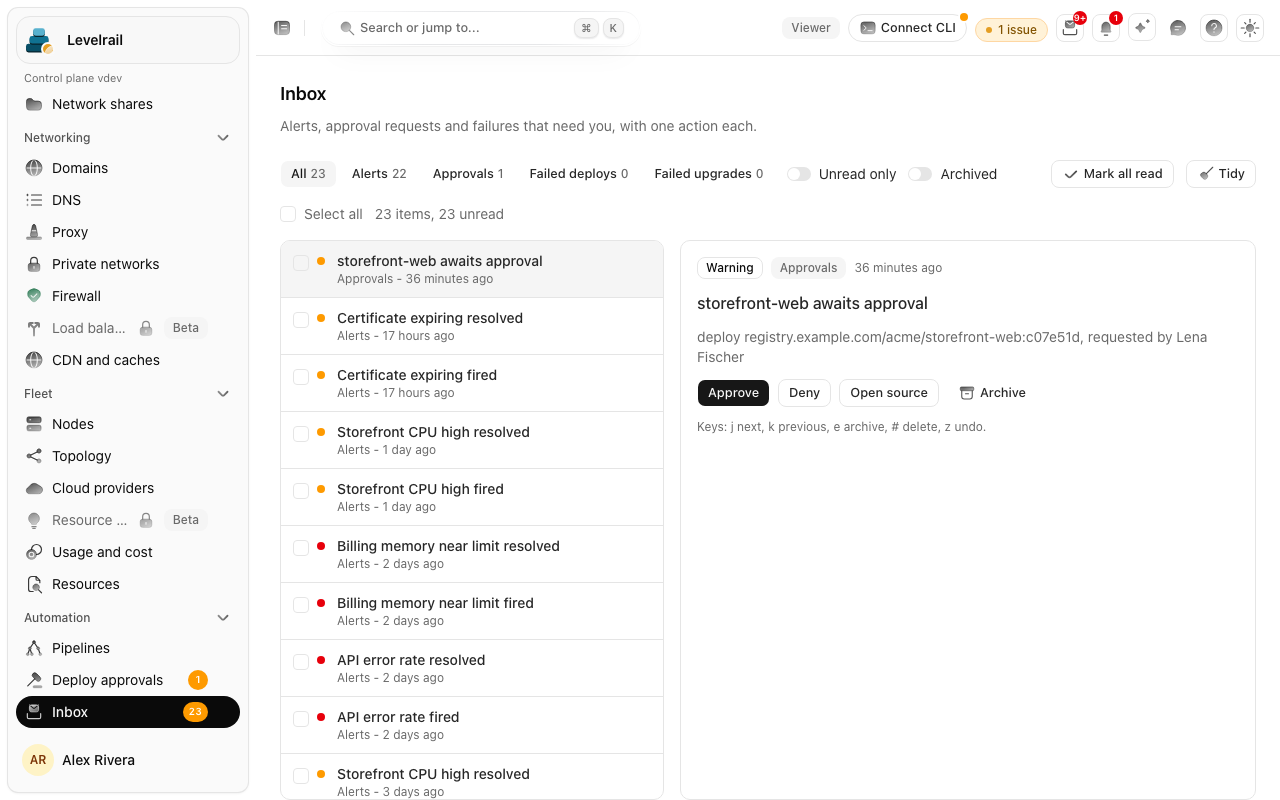
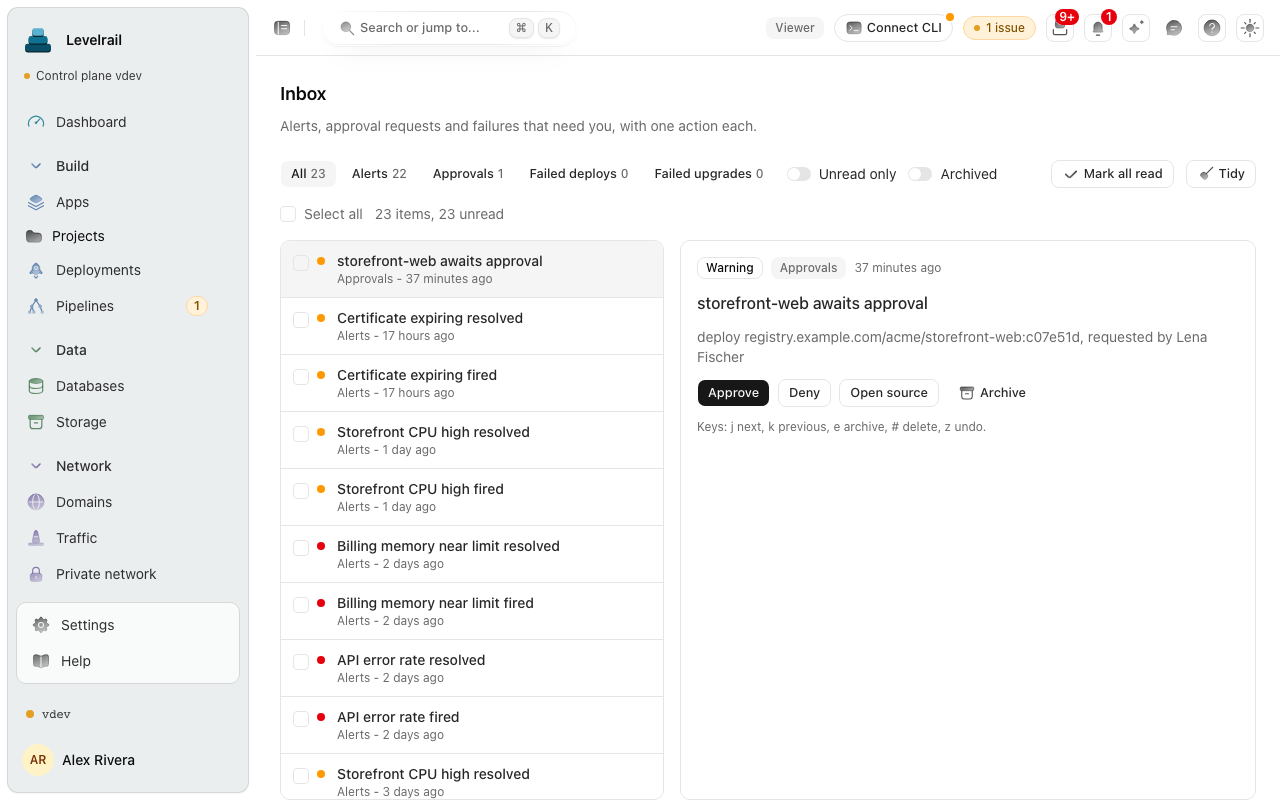
docs: README tour GIF and screenshots from the new sidebar
Fresh demo-mode captures of the regrouped dashboard.

diff --git a/README.md b/README.md
@@ -29,6 +29,8 @@ Push to deploy with HTTPS, logs, metrics and one-step rollback. One Go binary, n
 
 Turn any Linux server into a private cloud: Git deploys, HTTPS, databases with verified backups, metrics, logs and alerts, without Kubernetes and without a monitoring stack to bolt on. Pre-1.0: single-server is production ready, multi-node is beta ([Feature status](docs/feature-status.md)).
 
+<p align="center"><img src="docs/assets/demos/product-tour.gif" alt="Levelrail dashboard tour: fleet overview, apps list, deploy history and built-in metrics" width="880"></p>
+
 <table>
   <tr>
     <td align="center"><h3>200 MB</h3><sub>idle RAM, 1.5% of one CPU<br><a href="docs/benchmarks.md">measured, method included</a></sub></td>
@@ -88,13 +90,13 @@ Using a coding agent? `npx skills add https://github.com/glincker/levelrail --sk
 <table>
   <tr>
     <td width="33%" valign="top"><a href="docs/product-tour.mdx"><picture><source media="(prefers-color-scheme: dark)" srcset="docs/assets/screenshots/dashboard-home.png"><img src="docs/assets/screenshots/dashboard-home-light.png" alt="Levelrail dashboard home: fleet health, requests and recent deploys" loading="lazy"></picture></a><br><sub><b>The control plane at a glance</b></sub></td>
-    <td width="33%" valign="top"><a href="docs/frameworks.md"><picture><source media="(prefers-color-scheme: dark)" srcset="docs/assets/screenshots/framework-preset-picker.png"><img src="docs/assets/screenshots/framework-preset-picker-light.png" alt="Levelrail new app page with the framework preset picker" loading="lazy"></picture></a><br><sub><b>Pick a framework preset and the build settings fill in</b></sub></td>
-    <td width="33%" valign="top"><a href="docs/template-catalog.md"><picture><source media="(prefers-color-scheme: dark)" srcset="docs/assets/screenshots/templates-catalog.png"><img src="docs/assets/screenshots/templates-catalog-light.png" alt="Levelrail service template catalog" loading="lazy"></picture></a><br><sub><b>Install a known service from the template catalog</b></sub></td>
+    <td width="33%" valign="top"><a href="docs/deploying-apps.md"><picture><source media="(prefers-color-scheme: dark)" srcset="docs/assets/screenshots/apps-list.png"><img src="docs/assets/screenshots/apps-list-light.png" alt="Levelrail apps list with status, traffic and last deploy" loading="lazy"></picture></a><br><sub><b>Every app, its health and its last deploy</b></sub></td>
+    <td width="33%" valign="top"><a href="docs/deploying-apps.md"><picture><source media="(prefers-color-scheme: dark)" srcset="docs/assets/screenshots/deploy-history.png"><img src="docs/assets/screenshots/deploy-history-light.png" alt="Levelrail deploy history with promote and logs" loading="lazy"></picture></a><br><sub><b>Deploy history, promote and rollback</b></sub></td>
   </tr>
   <tr>
-    <td width="33%" valign="top"><a href="docs/deploying-apps.md"><picture><source media="(prefers-color-scheme: dark)" srcset="docs/assets/screenshots/deploy-live-log.png"><img src="docs/assets/screenshots/deploy-live-log-light.png" alt="Levelrail live deploy log" loading="lazy"></picture></a><br><sub><b>Live deploys</b></sub></td>
-    <td width="33%" valign="top"><a href="docs/load-balancing.md"><picture><source media="(prefers-color-scheme: dark)" srcset="docs/assets/screenshots/load-balancer.png"><img src="docs/assets/screenshots/load-balancer-light.png" alt="Levelrail load balancer upstreams and health checks" loading="lazy"></picture></a><br><sub><b>Load balance across replicas with health checks</b></sub></td>
-    <td width="33%" valign="top"><a href="docs/deploying-apps.md"><picture><source media="(prefers-color-scheme: dark)" srcset="docs/assets/screenshots/apps-list.png"><img src="docs/assets/screenshots/apps-list-light.png" alt="Levelrail apps list with status and last deploy" loading="lazy"></picture></a><br><sub><b>Every app, its health, and its last deploy</b></sub></td>
+    <td width="33%" valign="top"><a href="docs/product-tour.mdx"><picture><source media="(prefers-color-scheme: dark)" srcset="docs/assets/screenshots/app-overview.png"><img src="docs/assets/screenshots/app-overview-light.png" alt="Levelrail app metrics: CPU, memory and deploy markers" loading="lazy"></picture></a><br><sub><b>Metrics and logs, no Grafana stack</b></sub></td>
+    <td width="33%" valign="top"><a href="docs/multi-node.md"><picture><source media="(prefers-color-scheme: dark)" srcset="docs/assets/screenshots/nodes.png"><img src="docs/assets/screenshots/nodes-light.png" alt="Levelrail nodes list with health and capacity" loading="lazy"></picture></a><br><sub><b>Nodes and their capacity</b></sub></td>
+    <td width="33%" valign="top"><a href="docs/product-tour.mdx"><picture><source media="(prefers-color-scheme: dark)" srcset="docs/assets/screenshots/alerts.png"><img src="docs/assets/screenshots/alerts-light.png" alt="Levelrail alerts inbox" loading="lazy"></picture></a><br><sub><b>Alerts in one inbox</b></sub></td>
   </tr>
 </table>
 
